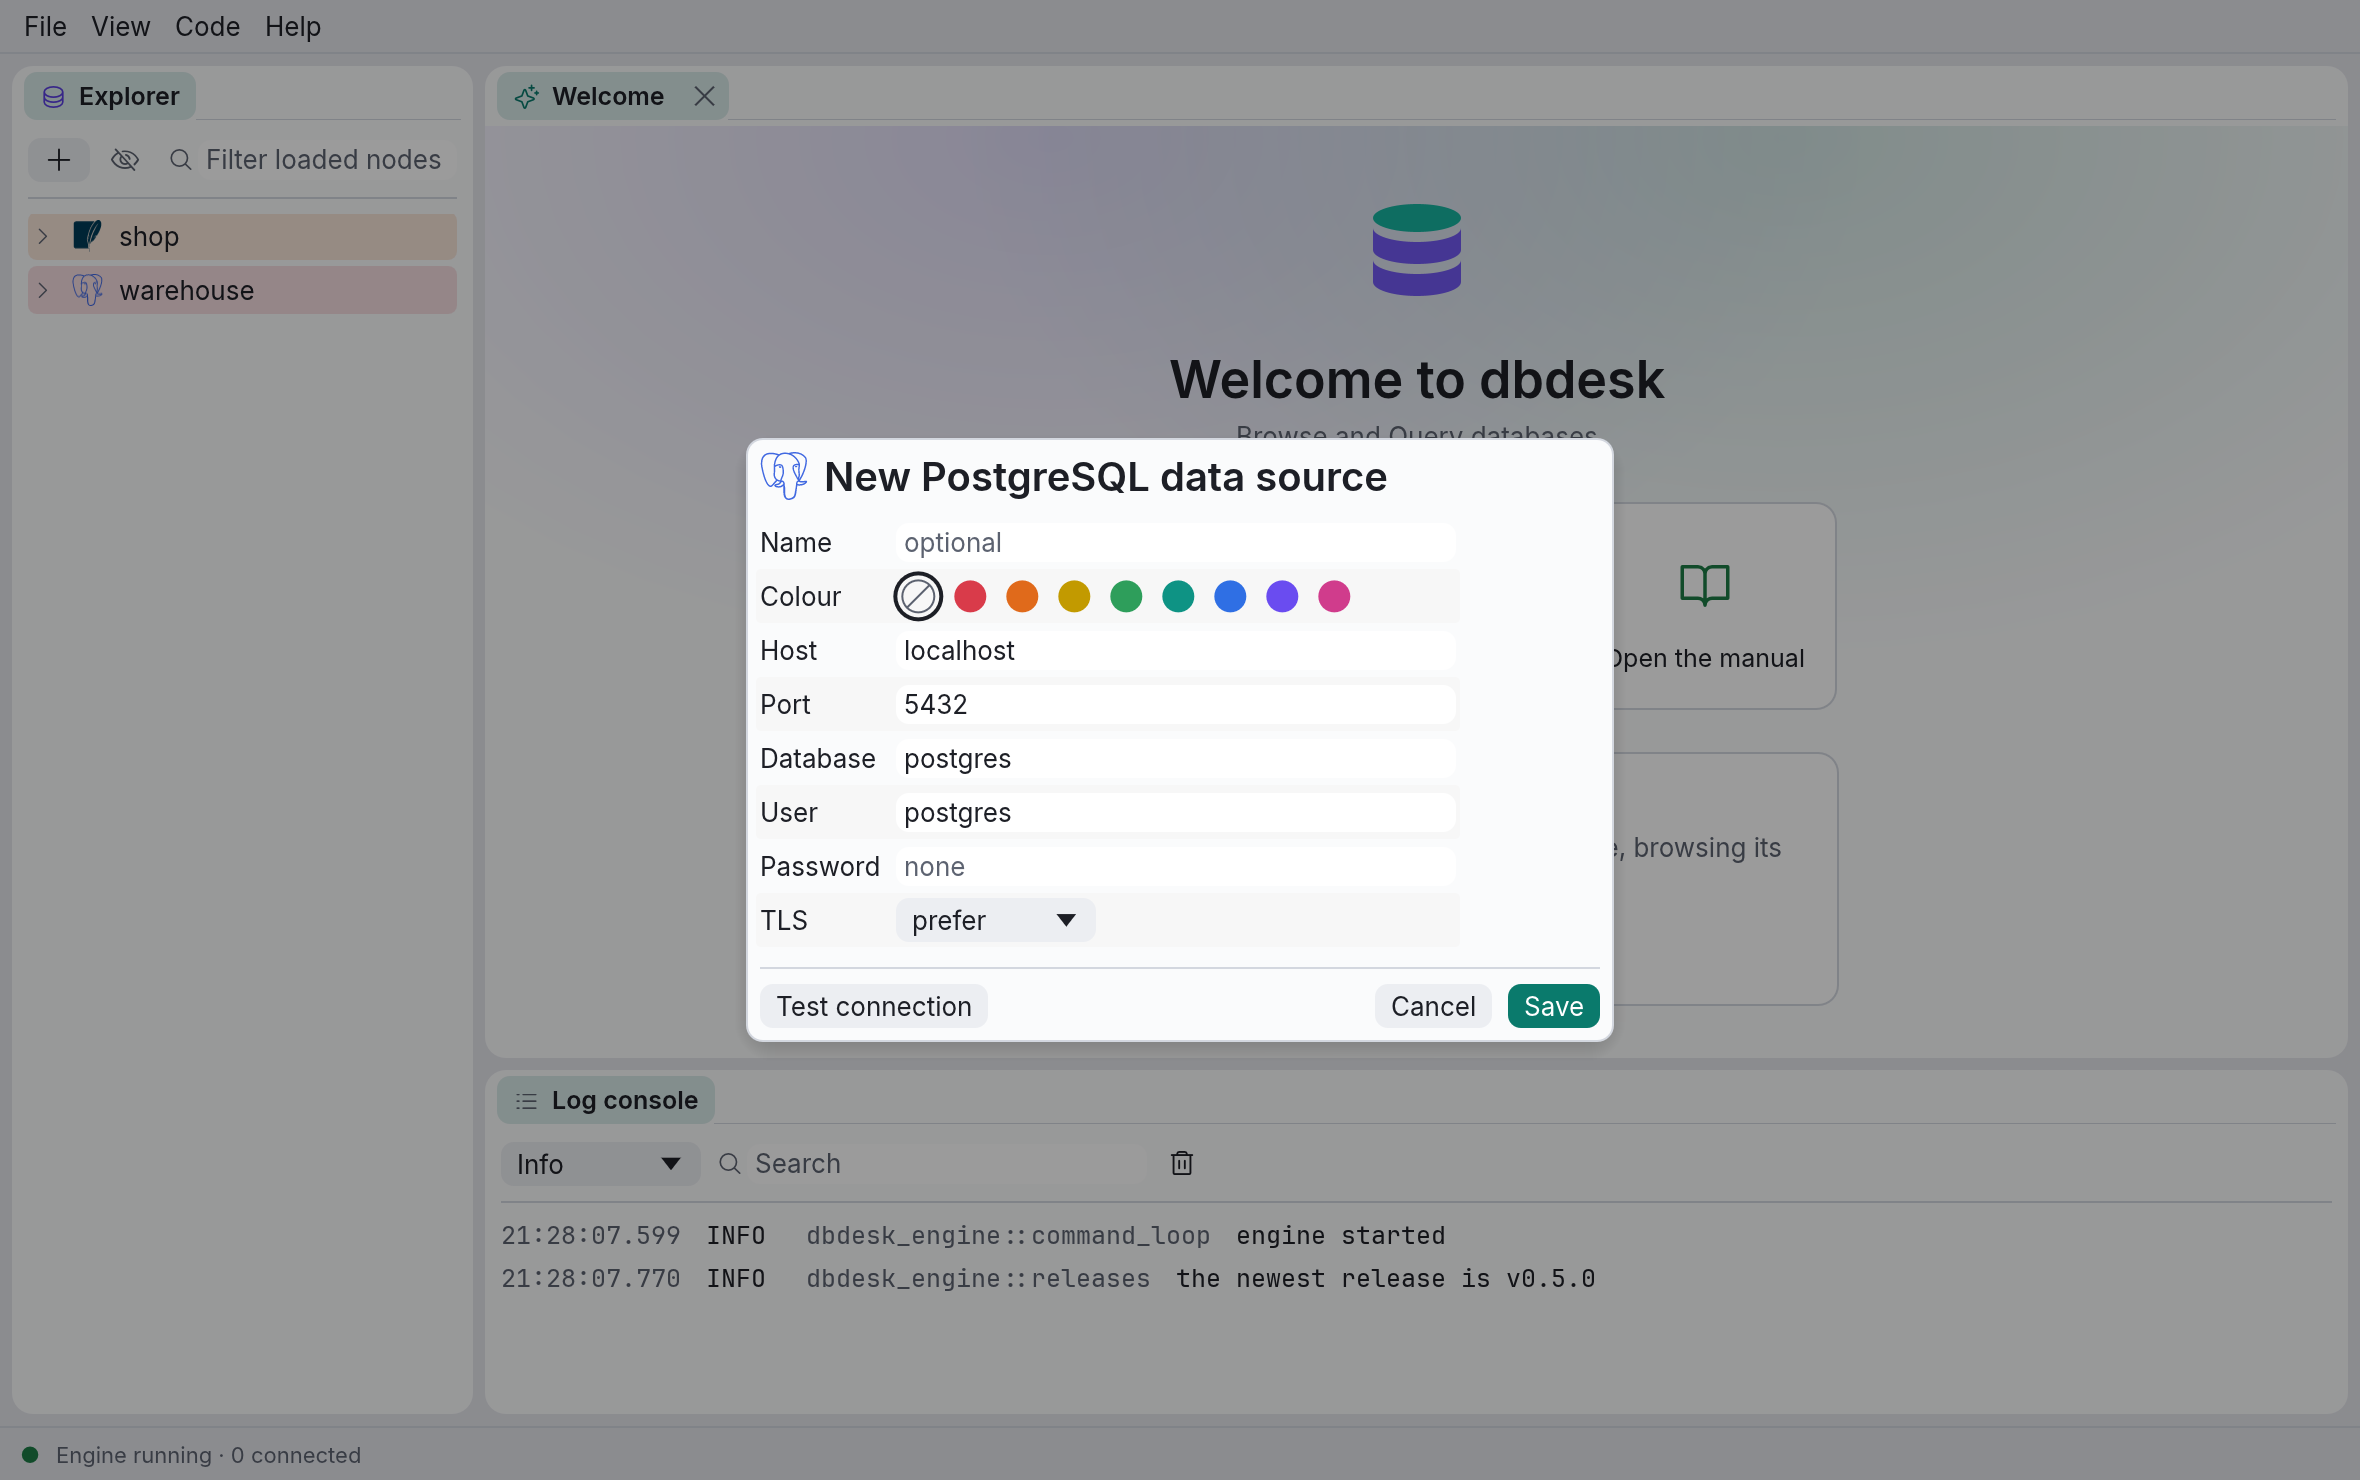
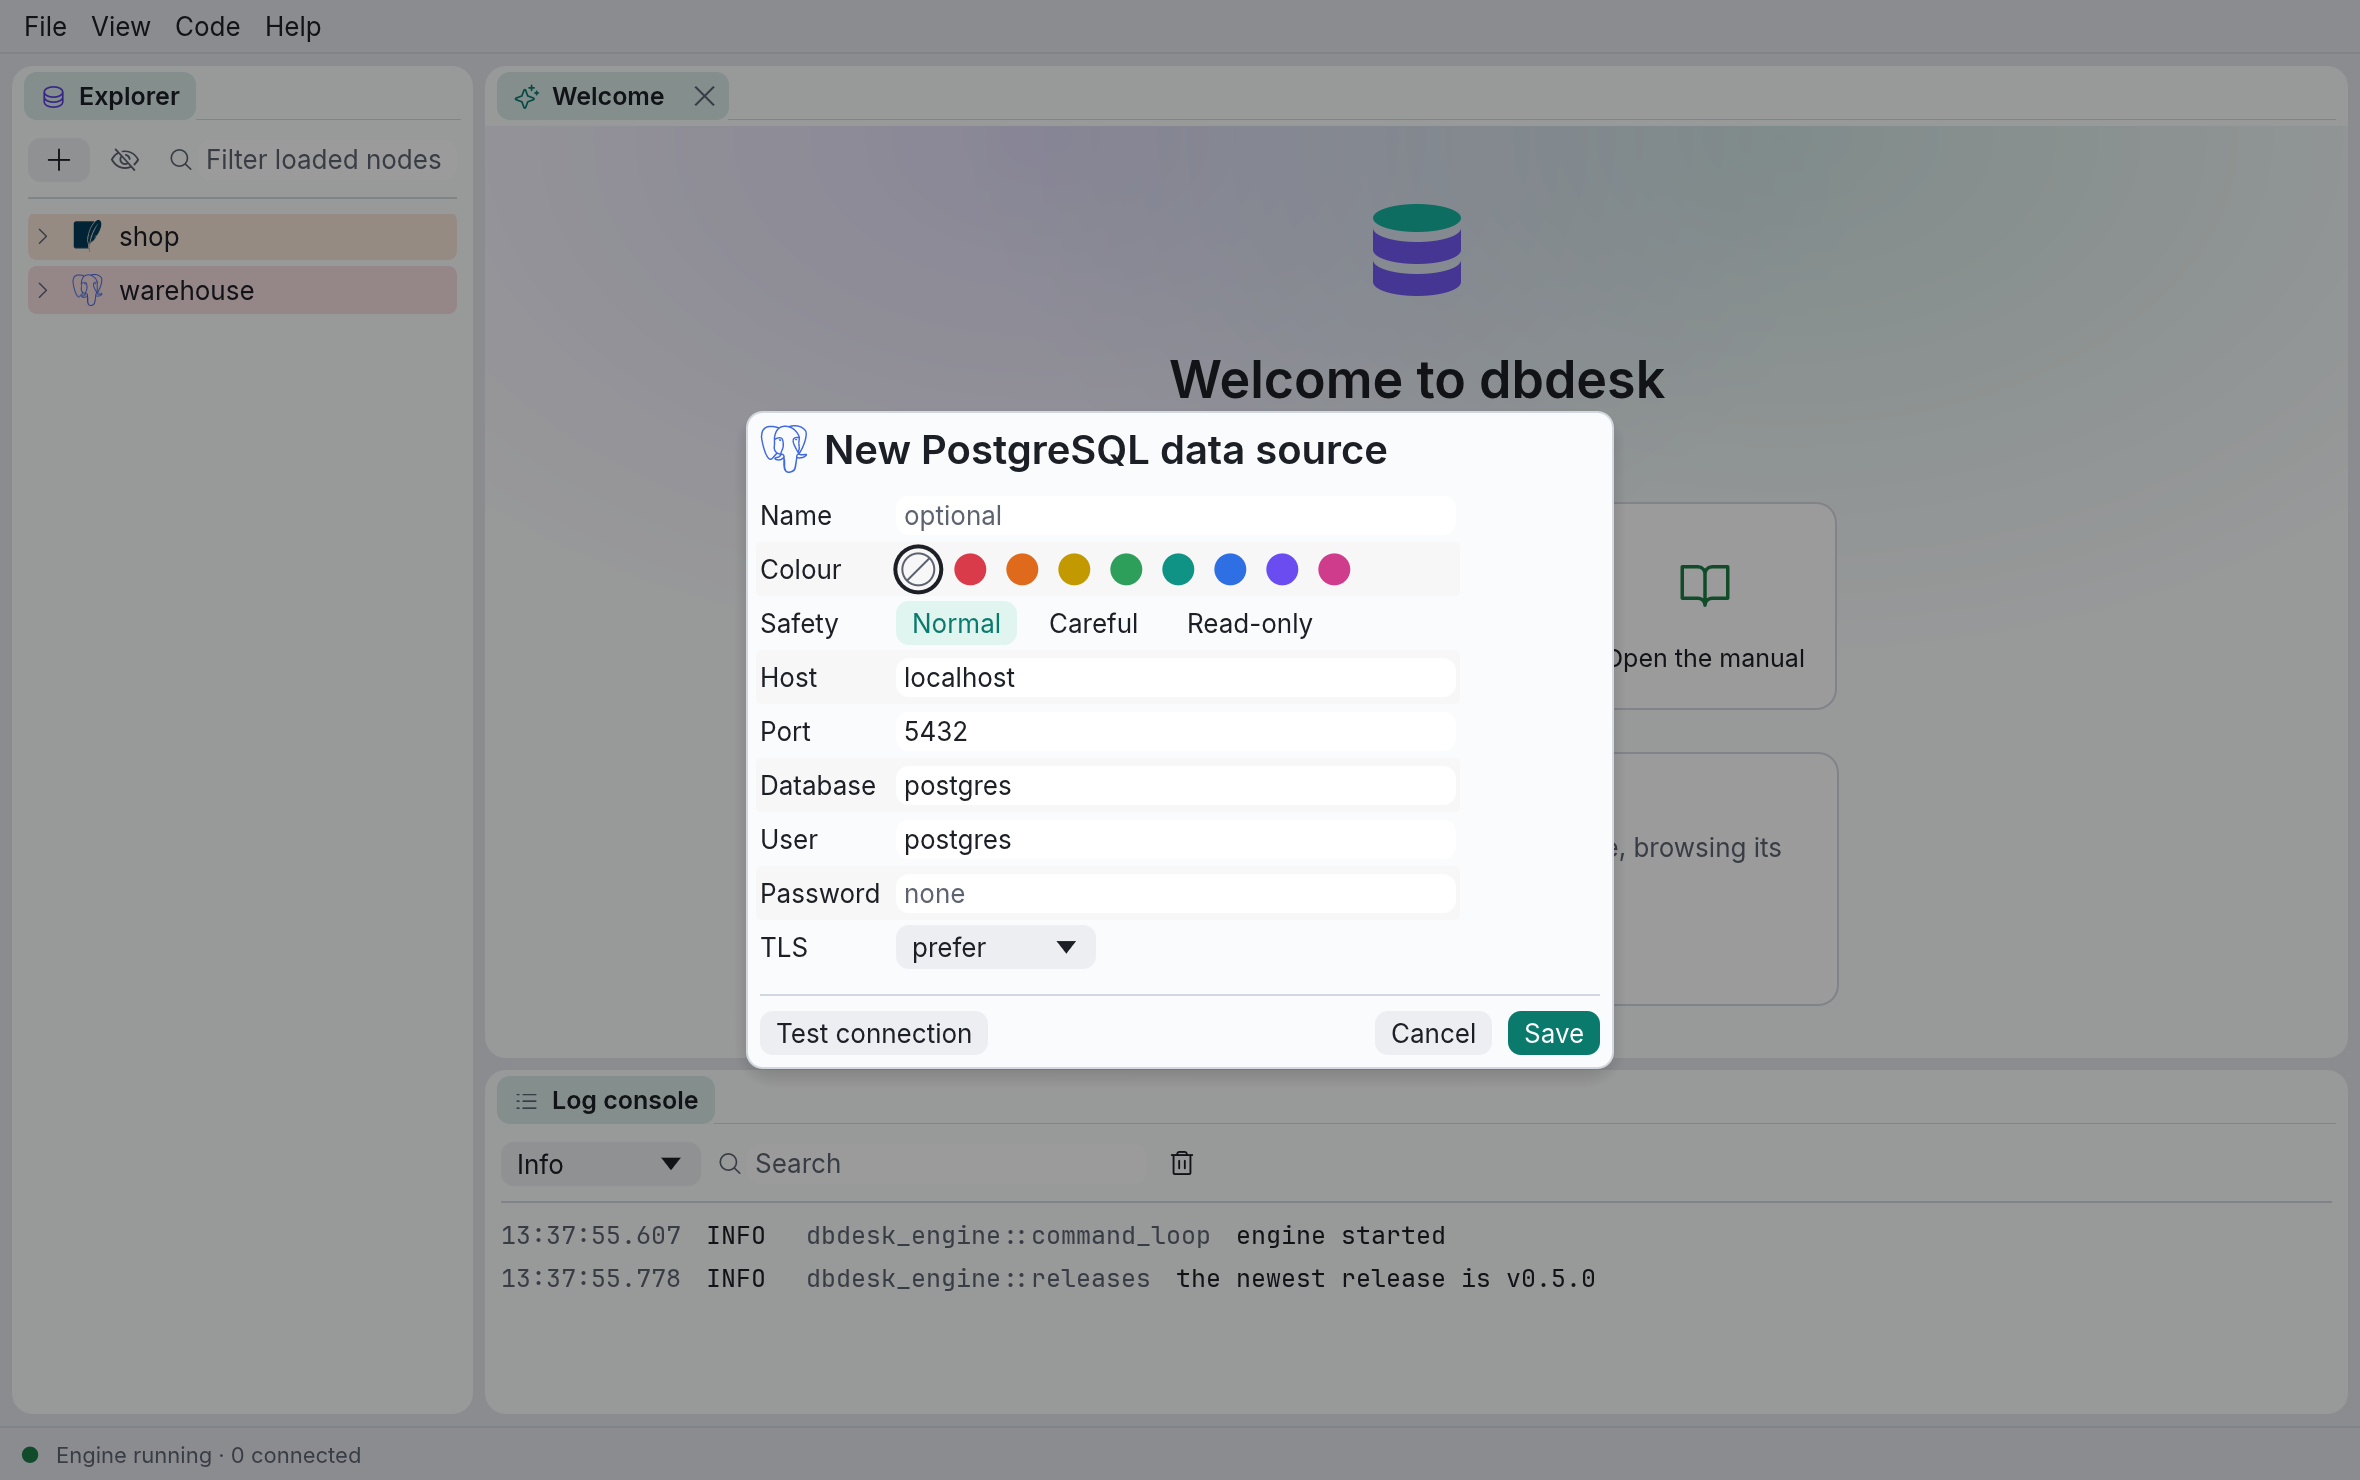
docs: describe safety levels per data source (#77)
The data sources chapter gains Safety levels (what Normal, Careful and
Read-only do, how read-only is enforced per engine, red suggesting
Careful), the consoles chapter how careful and read-only consoles
behave, the files chapter the safety setting, and docs the W2 demo
note and status. Three new screenshots: safety-level,
careful-confirmation and read-only-refusal; the rest regenerated.

Changed region(s): [[0.3093, 0.2797, 0.6805, 0.7459], [0.2165, 0.8392, 0.2475, 0.8703]]

diff --git a/crates/dbdesk-app/src/screenshots.rs b/crates/dbdesk-app/src/screenshots.rs
@@ -214,6 +214,24 @@ const SCENES: &[Scene] = &[
         keeps_pointer: false,
     },
     Scene {
+        name: "safety-level",
+        data_sources: FixtureSources::Shop,
+        play: safety_level,
+        keeps_pointer: false,
+    },
+    Scene {
+        name: "careful-confirmation",
+        data_sources: FixtureSources::Shop,
+        play: careful_confirmation,
+        keeps_pointer: false,
+    },
+    Scene {
+        name: "read-only-refusal",
+        data_sources: FixtureSources::Shop,
+        play: read_only_refusal,
+        keeps_pointer: false,
+    },
+    Scene {
         name: "explorer-menu",
         data_sources: FixtureSources::Shop,
         play: explorer_menu,
@@ -663,6 +681,51 @@ fn import_preview(harness: &mut Harness<'static, DbDeskApp>, fixture: &Fixture) 
     harness.state_mut().answer_file_dialogs_with(&file);
     open_file_menu_item(harness, "Import data sources…");
     step_until_visible(harness, "Imports 1 project and 3 data sources.");
+}
+
+fn edit_shop(harness: &mut Harness<'static, DbDeskApp>) {
+    harness.get_by_label("shop").click_secondary();
+    harness.run_ok();
+    harness.get_by_label("Edit…").click();
+    harness.run_ok();
+}
+
+/// Sets `shop`'s safety level through its dialog, as a user would.
+fn set_shop_safety(harness: &mut Harness<'static, DbDeskApp>, level: &str) {
+    edit_shop(harness);
+    harness
+        .get_by_role_and_label(Role::RadioButton, level)
+        .click();
+    harness.run_ok();
+    harness.get_by_label("Save").click();
+    harness.run_ok();
+    step_until_visible(harness, "Expand shop");
+}
+
+fn safety_level(harness: &mut Harness<'static, DbDeskApp>, _: &Fixture) {
+    edit_shop(harness);
+    harness.get_by_label("Red").click();
+    harness.run_ok();
+}
+
+fn careful_confirmation(harness: &mut Harness<'static, DbDeskApp>, _: &Fixture) {
+    set_shop_safety(harness, "Careful");
+    open_console(
+        harness,
+        "shop",
+        "UPDATE orders SET status = 'shipped' WHERE id = 4;\n",
+    );
+    run_all(harness, "Run on \u{201c}shop\u{201d}?");
+}
+
+fn read_only_refusal(harness: &mut Harness<'static, DbDeskApp>, _: &Fixture) {
+    set_shop_safety(harness, "Read-only");
+    open_console(
+        harness,
+        "shop",
+        "DELETE FROM order_items WHERE order_id = 4;\n",
+    );
+    run_all(harness, "Refused:");
 }
 
 fn explorer_menu(harness: &mut Harness<'static, DbDeskApp>, _: &Fixture) {

diff --git a/book/src/data-sources.md b/book/src/data-sources.md
@@ -18,6 +18,7 @@ Every kind has:
 - **Colour** — optional. The colour tints the data source's row in the explorer, the tabs of its
   consoles and a band along the top of each console. Giving production a red and your local copy
   nothing makes it hard to run something in the wrong place.
+- **Safety** — how careful dbdesk is with the data. See [Safety levels](#safety-levels).
 
 **PostgreSQL** adds:
 
@@ -152,6 +153,34 @@ isn't a number, show a message under the form instead. The dialog stays open unt
 gone through; if it fails, the reason is shown in the dialog.
 
 **Cancel**, **Esc** or a click outside the dialog closes it without saving.
+
+## Safety levels
+
+A colour only marks a data source. Its **safety level** decides what its consoles may change:
+
+| Level | What happens |
+| --- | --- |
+| **Normal** | Changes run when asked. Only an `UPDATE` or `DELETE` without `WHERE` asks first (see [Query consoles](consoles.md#statements-that-change-every-row)). |
+| **Careful** | Every change asks first, naming the data source: statements that change data or the schema, and edits in the grid. New consoles start in **Manual commit** mode. |
+| **Read-only** | Changes are refused. dbdesk reads each statement before sending it and refuses anything but reading, then runs it in the database's own read-only mode, which also stops a write hidden in a function. The grid can't be edited. |
+
+![Red suggests Careful in the data source dialog](images/safety-level.png)
+
+Picking red for a data source whose level is Normal suggests **Careful**, since red usually marks
+production; **Make it careful** takes the suggestion. The level is its own setting, so a red data
+source can stay Normal, and a careful one can be any colour.
+
+Read-only uses the same checks as an AI assistant's read-only projects (see
+[Connecting an AI assistant](mcp.md)):
+
+- **PostgreSQL** runs each statement in `BEGIN READ ONLY`, **MySQL and MariaDB** in
+  `START TRANSACTION READ ONLY`, rolled back once its rows are read. **SQLite** opens the file
+  read-only.
+- **SQL Server**, **DuckDB** and **ClickHouse** have no read-only mode dbdesk uses yet:
+  statements are still checked, but a write inside a procedure or function isn't stopped. The
+  dialog says so. (A DuckDB file can also be opened with its own **Read-only** box ticked.)
+- Anything that isn't a plain read is refused, including `SET`, `BEGIN` and statements dbdesk
+  can't parse, since what they do can't be told.
 
 ## Placeholders: `${VARIABLE}`
 

diff --git a/docs/roadmap.md b/docs/roadmap.md
@@ -44,7 +44,8 @@ Follow-ups left out of M1:
 - ~~A file picker for SQLite paths.~~ Done: **Browse…** and **New…** (create an empty database).
 - ~~Prompting for a password when none is saved or the keychain is unavailable.~~ Done in W1.
 - Noticing when an established connection drops (the session still shows "connected").
-- Duplicate data source; colour and safety level per data source.
+- Duplicate data source; ~~colour and safety level per data source~~ (colour in M4, safety
+  levels in W2).
 - Preserving comments in `data_sources.toml` (`toml_edit`).
 
 ## M2 — Connection explorer
@@ -495,6 +496,21 @@ The gaps that keep dbdesk from being an everyday tool. The full plan is in
   import preview.
 - **W2 — Safety per data source:** Normal, Careful (confirm every change) and Read-only
   (enforced as for MCP).
+
+  **W2 demo note:** built. In the data source dialog, pick **Red** and it suggests **Careful**
+  (**Make it careful**); the level is saved as `safety = "careful"` and travels in exports. Open
+  a console on it: the toolbar shows **Careful**, the console starts in **Manual commit**, and
+  an `UPDATE` asks *Run on "production"?* first; editing a cell and pressing **Submit** asks
+  *Apply edits to "production"?*. Make it **Read-only**: an `INSERT` or `CREATE TABLE` is
+  refused before it is sent (*Refused: this statement changes data, and "production" is
+  read-only.*), `SELECT f()` on a PostgreSQL function that inserts fails with the database's
+  read-only transaction error, rows still page in 500s, and the grid isn't editable. The
+  statement check and the read-only modes moved from `dbdesk-mcp` to `dbdesk_engine::read_only`,
+  which the MCP server and consoles now share. SQL Server, DuckDB and ClickHouse have no
+  read-only mode dbdesk uses yet, so only the check applies there, and the dialog says so. Covered by engine tests (SQLite refusals and
+  edits; PostgreSQL `INSERT`, `CREATE TABLE`, a write inside a function, and paging inside the
+  read-only transaction), the read-only module's tests, hazard dialog tests, and kittest tests
+  of a careful grid edit, a read-only refusal and red suggesting Careful.
 - **W3 — Connections you can rely on:** SSH tunnels with `russh`, and noticing and reconnecting
   dropped connections.
 - **W4 — History as an audit trail:**

diff --git a/book/src/consoles.md b/book/src/consoles.md
@@ -284,6 +284,8 @@ share, so nothing tells one row from another.
 - In manual commit mode, submitted changes join the open transaction and stay pending until
   you commit. DuckDB has no savepoints to undo a failed edit with, so on DuckDB, changes can't
   be submitted while a transaction is open: commit or roll back first.
+- On a **careful** data source, **Submit** asks first, naming the data source and how many rows
+  change. On a **read-only** one, the grid says **Read-only**.
 
 Values are sent as text and converted by the database, so type them the way the grid shows
 them (`t` for a PostgreSQL boolean, `{1,2}` for an array).
@@ -321,3 +323,20 @@ On MySQL and MariaDB, the same dialog warns before a statement that commits by i
 **Rollback**: in **Manual commit** mode, or with a transaction open. MySQL commits such a
 statement at once, together with whatever the transaction held, so **Rollback** can't undo
 either. Temporary tables are the exception, and don't get the warning.
+
+## Careful and read-only data sources
+
+The toolbar shows a data source's [safety level](data-sources.md#safety-levels) unless it is
+Normal; hover over it for what it means.
+
+On a **careful** data source, every statement that changes data or the schema asks first, naming
+the data source, in the same dialog. Reading, `COMMIT` and `ROLLBACK` don't ask. New consoles on
+it start in **Manual commit** mode.
+
+![Run on "shop"? before an UPDATE on a careful data source](images/careful-confirmation.png)
+
+On a **read-only** data source, a statement that would change anything isn't sent at all, and
+the result says why. A write the check can't see, inside a function, is refused by the
+database, with its own error.
+
+![A DELETE refused on a read-only data source](images/read-only-refusal.png)

diff --git a/docs/persistence.md b/docs/persistence.md
@@ -29,6 +29,10 @@ dbdesk/
   the error. A broken file is never overwritten with an empty list.
 - `color` is optional (one of `red`, `orange`, `yellow`, `green`, `teal`, `blue`, `violet`,
   `pink`) and only written when set, so files from before it existed load unchanged.
+- `safety` is optional (`normal`, `careful` or `read-only`) and only written when it isn't
+  `normal` (W2). Exports carry it.
+- `host`, `port`, `database`, `user`, `path` and `ca_file` may hold `${NAME}` placeholders,
+  resolved when connecting; a port with one is written as a string (W1).
 - Comments and unknown fields are **not** preserved when dbdesk rewrites the file (it is written
   with `serde` + `toml`), and the file header says so. Switching to `toml_edit` to edit the
   document in place is a follow-up if hand-editing becomes common.

diff --git a/book/src/files.md b/book/src/files.md
@@ -70,7 +70,10 @@ read_only = true
   that doesn't exist, the data source is in **No project**.
 - `tls` is optional for PostgreSQL, and `mode` defaults to `prefer`: `disable`, `prefer`,
   `require` or `verify-full`. `ca_file` is only read with `verify-full`.
-- `read_only` is optional and defaults to `false`.
+- `read_only` is optional and defaults to `false`. It opens a SQLite file read-only; `safety`
+  is the setting for every engine.
+- `safety` is optional: `normal` (the default, left out), `careful` or `read-only`. See
+  [Safety levels](data-sources.md#safety-levels).
 - `host`, `port`, `database`, `user`, `path` and `ca_file` may hold `${NAME}` placeholders,
   resolved from the environment when connecting (see
   [Placeholders](data-sources.md#placeholders-variable)). A port with one is a string:

diff --git a/docs/well-rounded.md b/docs/well-rounded.md
@@ -1,6 +1,7 @@
 # A well-rounded app
 
-Status: **W1 built** (see the [roadmap](roadmap.md#well-rounded-track)); W2 to W6 planned.
+Status: **W1 and W2 built** (see the [roadmap](roadmap.md#well-rounded-track)); W3 to W6
+planned.
 Proposed on 2026-10-24.
 
 dbdesk browses, queries and edits PostgreSQL, SQLite, MySQL and MariaDB, and ships as a
